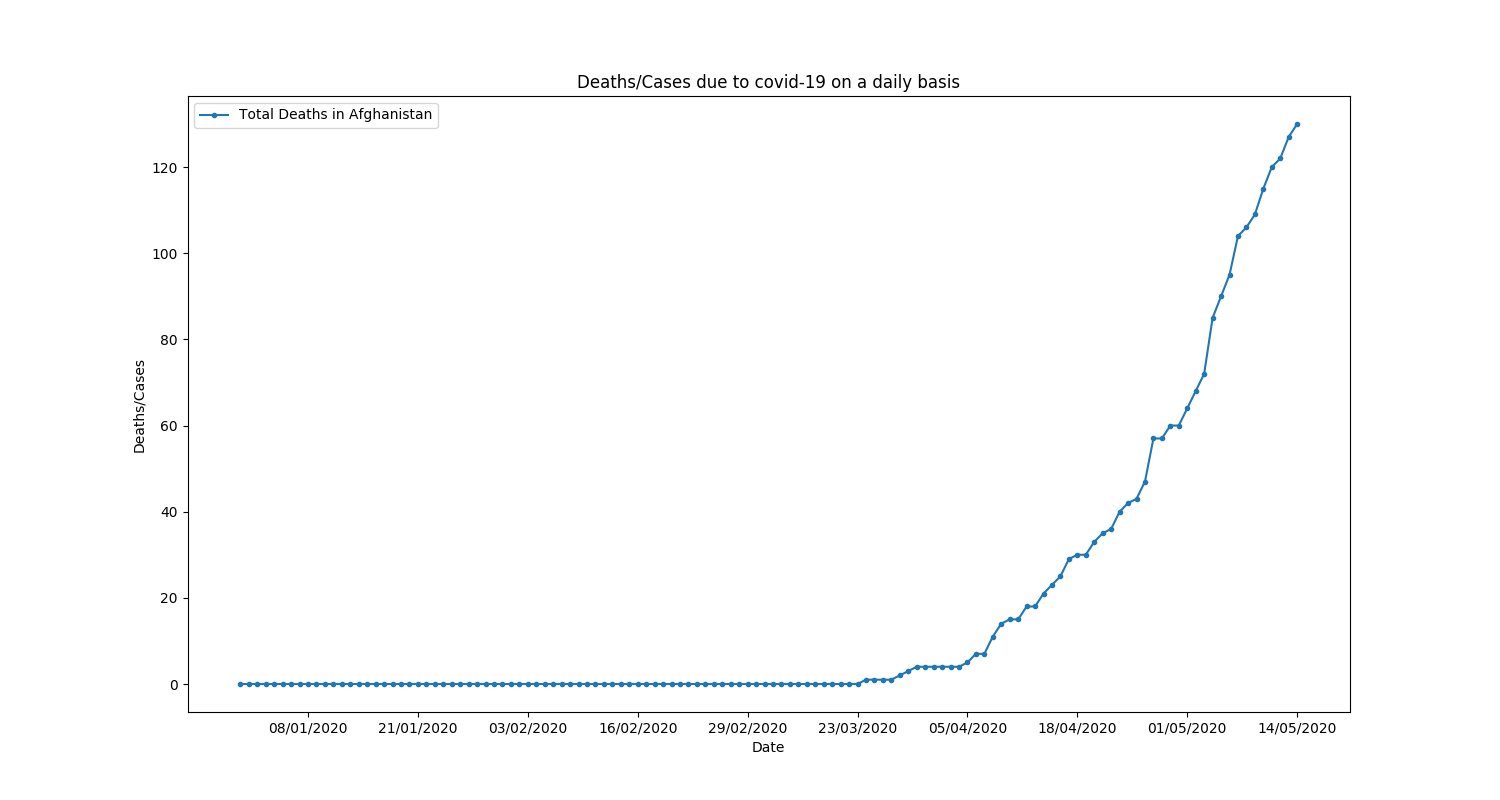
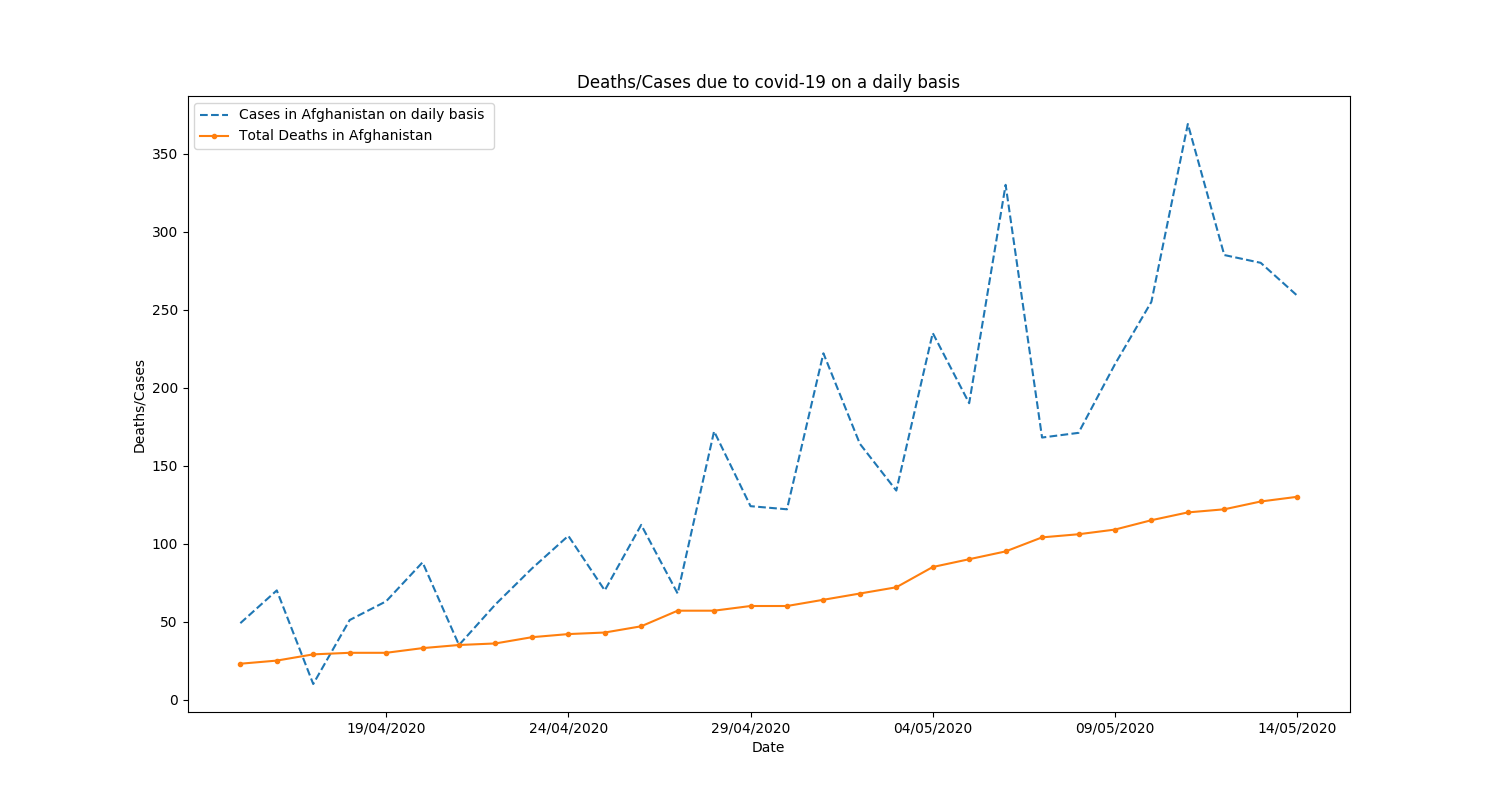
added multiple select box to select multiple countries to compare them along with selection of type of data

diff --git a/Covid19Dashboard/Dashboard/templates/Dashboard/index.html b/Covid19Dashboard/Dashboard/templates/Dashboard/index.html
@@ -143,7 +143,7 @@
         <div class="item">
           <p>Select the country you want to search<span class="required">*</span></p>
           <div class="name-item">
-            <select id="country" name="country">
+            <select multiple id="country" name="country">
               {% for country in countries %}
                 <option value={{country}}>{{country}}</option>
                 <!--endfor comes without space-->
@@ -151,17 +151,25 @@
             </select>
           </div>
         </div>
+        <div class="item">
+          <p>Select the things you want to see<span class="required">*</span></p>
+          <div class="name-item">
+            <select multiple id="Query" name="typeOfQuery">
+                <option value=dailyDeaths>Daily Deaths</option>
+                <option value=dailyCases>Daily Cases</option>
+                <option value=totalDeaths>Total Deaths</option>
+                <option value=totalCases>Total Cases</option>
+            </select>
+          </div>
+        </div>
+        <div class="btn-block">
+         <p>Type the no of previous days you want to see data of :<span class="required">*</span></p>
+          <input type=number name='days'></input>
+        </div>
         <div class="btn-block">
           <button type="submit" href="/">Apply</button>
         </div>
       </form>
     </div>
-    <div>
-    {% if path is not ''%}
-      {% load static %}
-      <!--While loading image from path just write static path-->
-      <img src="{% static path %}" alt={{path}}>
-    </div>
-    {%endif%}
   </body>
 </html>

diff --git a/Covid19Dashboard/Dashboard/views.py b/Covid19Dashboard/Dashboard/views.py
@@ -21,6 +21,7 @@ def plot(**kwargs) :
     plt.title('Deaths/Cases due to covid-19 on a daily basis')
     for country in kwargs['countries'] :
         temp=df.loc[df['countriesAndTerritories']==country]
+        temp=temp[:30]
         temp=temp[::-1]
         if kwargs['dailyDeaths'] :
             plt.plot(temp['dateRep'],temp['deaths'],'*-',label='Deaths in '+country+' on daily basis')
@@ -32,8 +33,9 @@ def plot(**kwargs) :
             plt.plot(temp['dateRep'],temp['Cummulative Cases'],'.--',label='Total Cases in '+country)
 
     temp=df.loc[df['countriesAndTerritories']==kwargs['countries'][0]]
+    temp=temp[:30]
     date=temp['dateRep']
-    date=date[::13]
+    date=date[::5]
     plt.xticks(date)
     plt.xlabel('Date')
     plt.ylabel('Deaths/Cases')
@@ -50,8 +52,9 @@ def index(request) :
     path=''
     listofCountries=[]
     if request.POST.get('country') is not None :
-        path,listofCountries=plot(countries=[request.POST.get('country')],dailyDeaths= False,dailyCases= False,totalDeaths=True,totalCases=False)
-        print(path)
+        #this is a feature a simple request.POST.get('key') doesnt work if value of key is a list you need to use getlist
+        path,listofCountries=plot(countries=request.POST.getlist('country'),dailyDeaths= 'dailyDeaths' in request.POST.getlist('typeOfQuery'),dailyCases= 'dailyCases' in request.POST.getlist('typeOfQuery'),totalDeaths='totalDeaths' in request.POST.getlist('typeOfQuery'),totalCases='totalCases' in request.POST.getlist('typeOfQuery'),days=request.POST.get('days'))
+        print(request.POST)
         context={'countries':listofCountries,'path' : path}
         return render(request,'Dashboard/plottedGraph.html',context)
 
